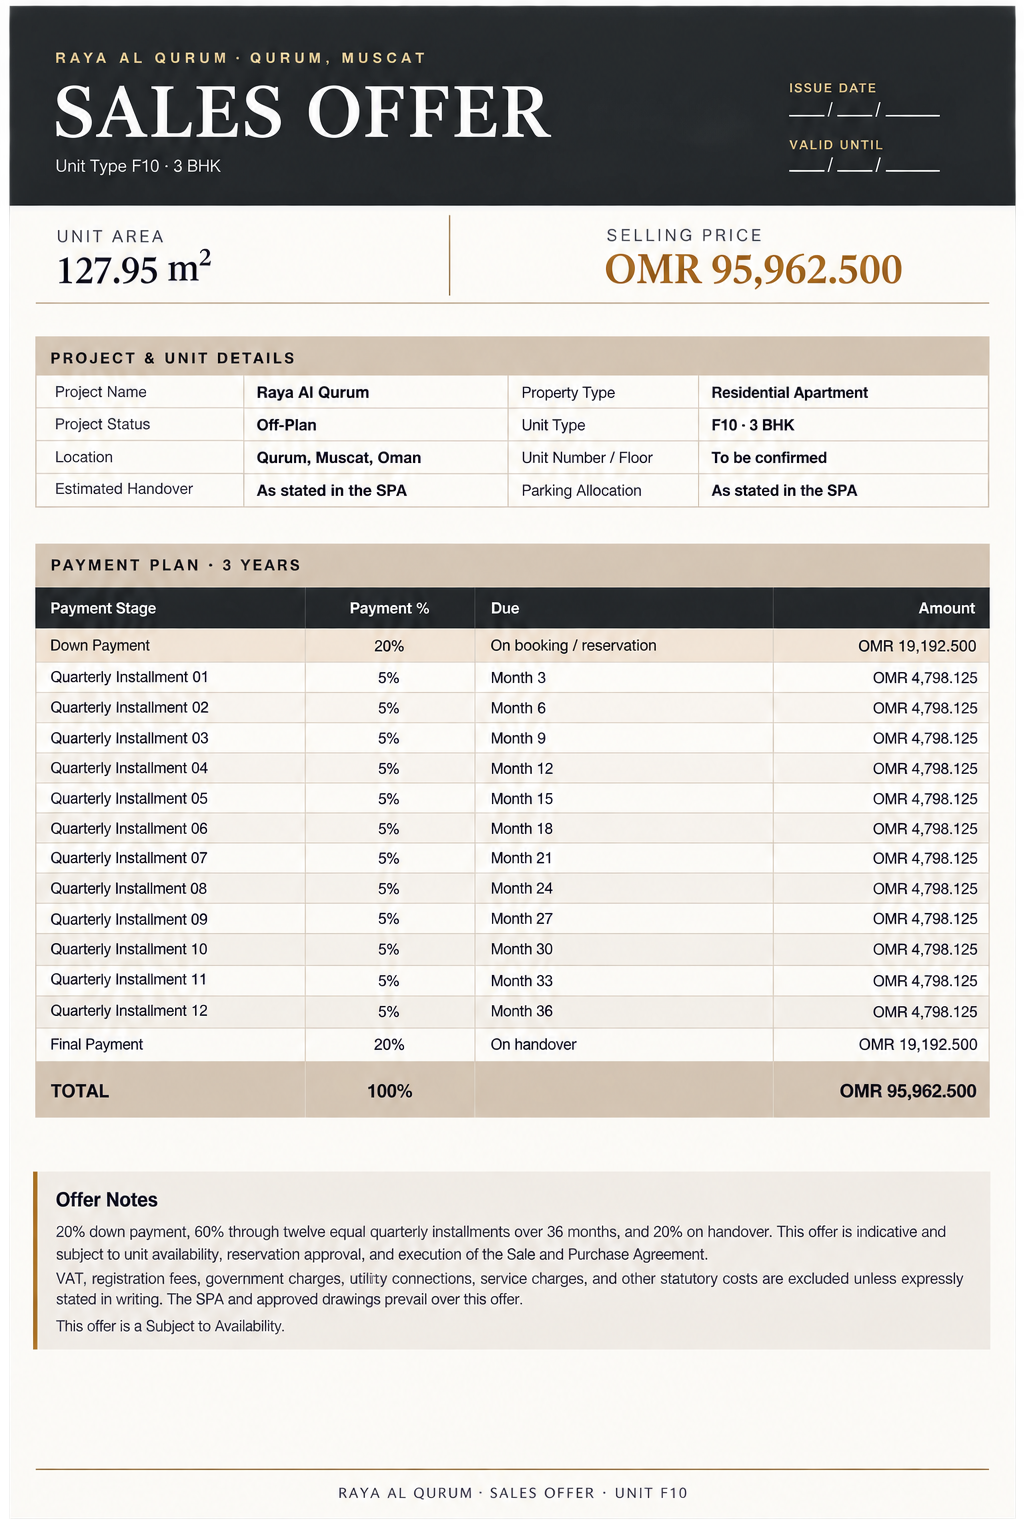
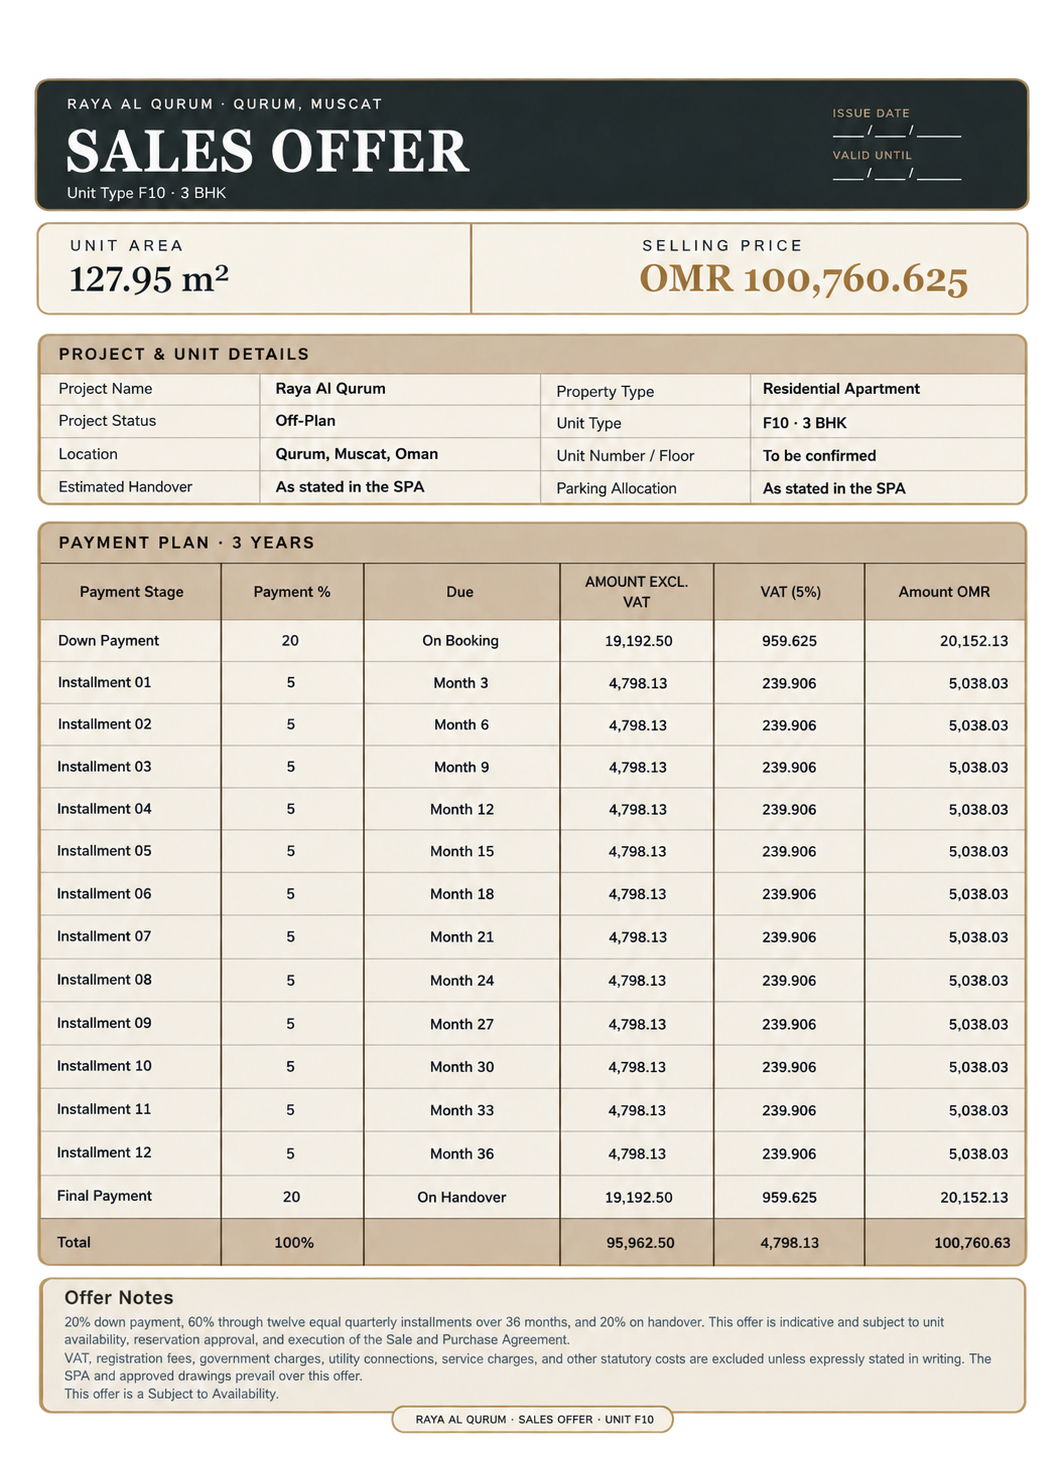
Update sales offer images and make F15 clickable

diff --git a/src/components/Residences.jsx b/src/components/Residences.jsx
@@ -160,11 +160,11 @@ const residences = [
   description:
     "A generously planned three-bedroom residence offering spacious bedrooms, refined living and dining areas, and thoughtfully arranged utility and balcony spaces for comfortable contemporary living.",
   area: "123.35 SQ.M.",
-  price: "OMR 101,764",
+  price: "OMR 106,851.94",
   bedrooms: "3",
   baths: "3",
   utility: "1",
-  balcony: "1",
+  balconies: "1",
   unitLayout: "/images/Residences/F4-3BHK-unit-layout.png",
   layoutDetails: "/images/Residences/F4-3BHK-layout-details.png",
 
@@ -806,7 +806,7 @@ function ResidenceDetails({ residence, onClose }) {
 
           <div className="unit-row-detail">
             <span>BATHROOM</span>
-            <strong>—</strong>
+            <strong>3</strong>
           </div>
 
           <div className="unit-row-price">
@@ -1194,7 +1194,10 @@ function ResidenceDetails({ residence, onClose }) {
   </section>
 )}
 
-        <header id="f2-detail" className="details-header">
+        <header
+  id={`${residence.unit.toLowerCase()}-detail`}
+  className="details-header"
+>
           <div className="details-title">
             <span>RAYA AL QURUM · RESIDENCES</span>
 
@@ -1343,8 +1346,7 @@ function ResidenceDetails({ residence, onClose }) {
 
     <div className="feature-info">
       <strong>{residence.balconies}</strong>
-      <span>BALCONIES</span>
-    </div>
+<span>{residence.unit === "F4" ? "BALCONY" : "BALCONIES"}</span>    </div>
   </div>
 
 </div>
@@ -1394,8 +1396,8 @@ function ResidenceDetails({ residence, onClose }) {
           </div>
 
           <div className="detail-reveal">
-            <span>Balconies</span>
-<strong>{residence.balconies}</strong>    
+           <span>{residence.unit === "F4" ? "Balcony" : "Balconies"}</span>
+<strong>{residence.balconies}</strong>   
       </div>
         </section>
 )}
@@ -1462,8 +1464,10 @@ function ResidenceDetails({ residence, onClose }) {
               </div>
 
               <div>
-                <strong>{residence.balconies}</strong>
-                <span>BALCONIES</span>
+               <strong>{residence.balconies}</strong>
+<span>
+  {residence.unit === "F4" ? "BALCONY" : "BALCONIES"}
+</span>
               </div>
             </div>
           </div>
@@ -1710,8 +1714,10 @@ function ResidenceDetails({ residence, onClose }) {
         F15 · UNIT HEADER
     ========================= */}
 
-    <section className="details-header f15-unit-header">
-
+<section
+  id="f15-detail"
+  className="details-header f15-unit-header"
+>
       <div className="details-title">
         <span>RAYA AL QURUM · RESIDENCES</span>
 
@@ -2151,7 +2157,7 @@ function ResidenceDetails({ residence, onClose }) {
 
             <div className="sales-info-item">
               <span>INDICATIVE PRICE</span>
-              <strong>OMR 101,764</strong>
+              <strong>OMR 106,851.94</strong>
             </div>
 
           </div>
@@ -2210,8 +2216,10 @@ function ResidenceDetails({ residence, onClose }) {
         F10 · UNIT HEADER
     ========================= */}
 
-    <section className="details-header f10-unit-header">
-
+<section
+  id="f10-detail"
+  className="details-header f10-unit-header"
+>
       <div className="details-title">
 
         <span>RAYA AL QURUM · RESIDENCES</span>
@@ -2408,7 +2416,7 @@ function ResidenceDetails({ residence, onClose }) {
         <small>INDICATIVE SELLING PRICE</small>
 
         <strong>
-          OMR 95,962.500
+          OMR 100,760.625
         </strong>
 
       </div>
@@ -2456,8 +2464,8 @@ function ResidenceDetails({ residence, onClose }) {
           </div>
 
           <div>
-            <strong>127.95</strong>
-            <span>SQ.M.</span>
+            <strong>_</strong>
+            <span>utility</span>
           </div>
 
         </div>
@@ -2529,7 +2537,7 @@ function ResidenceDetails({ residence, onClose }) {
 
             <div className="sales-info-item">
               <span>INDICATIVE PRICE</span>
-              <strong>OMR 95,962.500</strong>
+              <strong>OMR 100,760.625</strong>
             </div>
 
           </div>
@@ -2584,7 +2592,7 @@ function ResidenceDetails({ residence, onClose }) {
 
   <div>
     <span>INDICATIVE PRICE</span>
-    <strong>OMR 95,962.500</strong>
+    <strong>OMR 100,760.625</strong>
   </div>
 
 </section>
